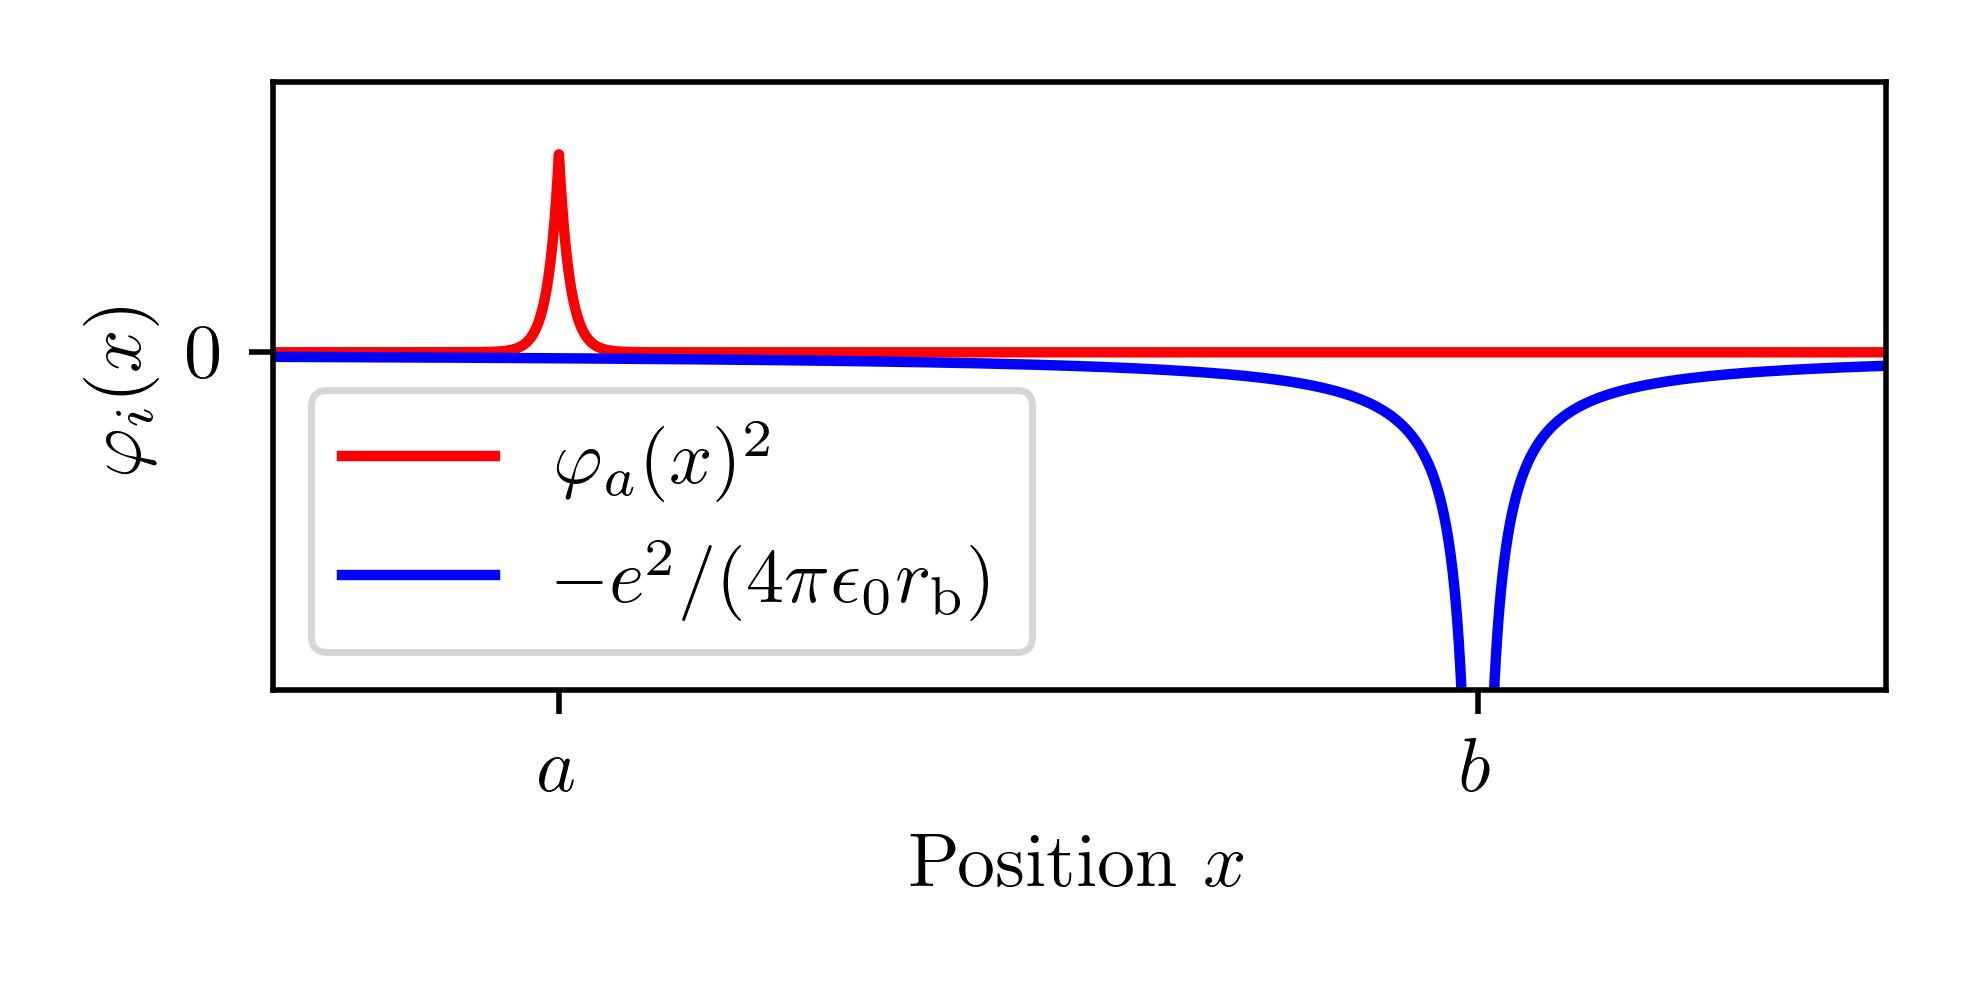
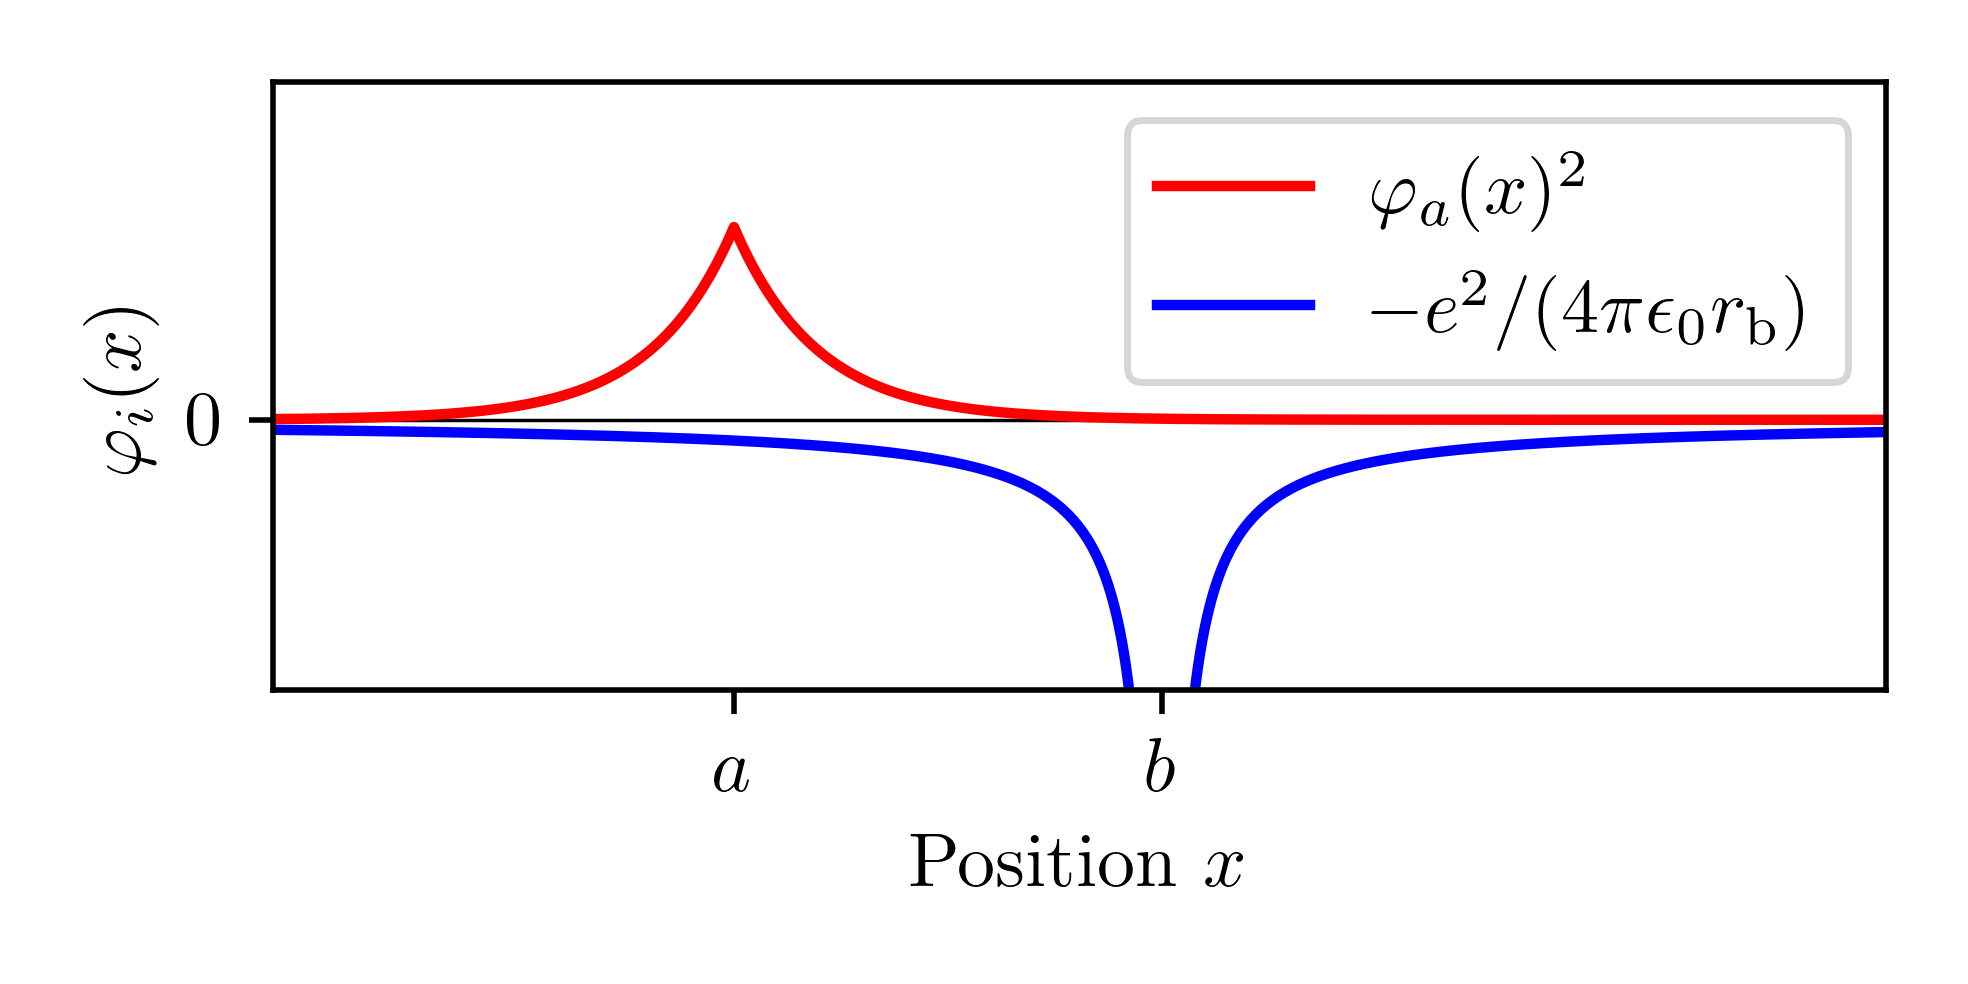
VL04 erste Korrektur

diff --git a/content/VL04_20251024.tex b/content/VL04_20251024.tex
@@ -8,8 +8,8 @@
     \end{center}
     bildet eine heteropolare Bindung.
     Zwischen den gegensätzlich geladenen Ionen wirkt die Coulomb'sche Anziehungskraft.     
-    Spannend ist, wieso das Elektron vom Natrium zum Chlorid übergeht: 
-    es ist energetisch günstiger, die Chlorid${}^-$-Schale aufzufüllen und Natrium${}^+$ zu bilden. 
+    Spannend ist, wieso das Elektron vom Natrium zum Chlor übergeht: 
+    es ist energetisch günstiger, die Chlor${}^-$-Schale aufzufüllen und Natrium${}^+$ zu bilden. 
     Typische Bindungsenergien sind $\SI[parse-numbers=false]{5\text-10}{\electronvolt}$.
 
     \paragraph{Homöopolare Bindungen}
@@ -18,11 +18,12 @@
         \ce{H2}, \quad bzw. \quad\chemfig{H-H}.
     \end{center}
     bildet eine homöopolare Bindung aus zwei neutralen Wasserstoffatomen.
-    Die Ursache dafür ist quantenmechanisch: 
-    Die Wellenfunktionen der Protonen (der Atomkerne) interferieren konstruktiv.
+    Die Ursache dafür ist quantenmechanischer Natur: 
+    Die Wellenfunktionen der Elektronen interferieren konstruktiv zwischen den Protonen.
     Das führt zur einer Kompensation der Coulomb-Abstoßung und einer Energieabsenkung des gebundenen Zustandes.\\
 
-    Interferieren die Wellenfunktionen der Protonen jedoch destruktiv, dominiert die Coulomb'sche Abstoßung und es kommt zur Energieanhebung in einen anti-gebundenen Zustand.
+    Interferieren die Wellenfunktionen der Elektronen jedoch destruktiv, dominiert die Coulomb'sche Abstoßung und es kommt zur Energieanhebung in einen anti-gebundenen Zustand.
+    Typische Bindungsenergien sind $1$ - $\SI{5}{\electronvolt}$.
 
 \subsection{Das Wasserstoff-Molekülion \ce{H2+}}
     \begin{minipage}{0.3\linewidth}
@@ -41,7 +42,7 @@
             \draw[|<->|, thick] (0.3,0.45) --node[midway, anchor=south east] {$r_\mathrm a$} (0.75, 1.15);
             \draw[|<->|, thick] (2.6,0.1) --node[midway, above] {$r_\mathrm b$} (1.35, 1.2);
         \end{tikzpicture}
-        \captionof{figure}{Schematische Darstellung des Wasserstoff-Molekülions \ce{H2+}. Eingezeichnet sind die Abstände $r_i$, zwischen den Teilchen.}
+        \captionof{figure}{Schematische Darstellung des Wasserstoff-Molekülions \ce{H2+}. Eingezeichnet sind die Abstände $r_i$ zwischen den Protonen (+) und Elektronen (-).}
         \label{fig:1.3_H2+_ion}
     \end{minipage}\\
 
@@ -203,7 +204,7 @@
 
     Auch $D$ lässt sich als Funktion von $R_\mathrm{a,b}$ analysieren:
     \begin{itemize}
-        \item Für $R_\mathrm{a,b}\to 0 $ geht $ \varphi_\mathrm{a}$ in $ \varphi_\mathrm{b}$ über, d.h. es gilt $ D= C$. Somit kann die Coulomb'sche Abstoßungsenergie der der Kerne nicht kompensiert werden.
+        \item Für $R_\mathrm{a,b}\to 0 $ geht $ \varphi_\mathrm{a}$ in $ \varphi_\mathrm{b}$ über, d.h. es gilt $ D= C$. Somit kann die Coulomb'sche Abstoßungsenergie der Kerne nicht kompensiert werden.
         \item Für wachsendes $R_\mathrm{a,b}$ nehmen sohwohl
             $$
             \frac{\mathrm{e}^2}{4 \pi \varepsilon_0 R_\mathrm{a,b}}, 
